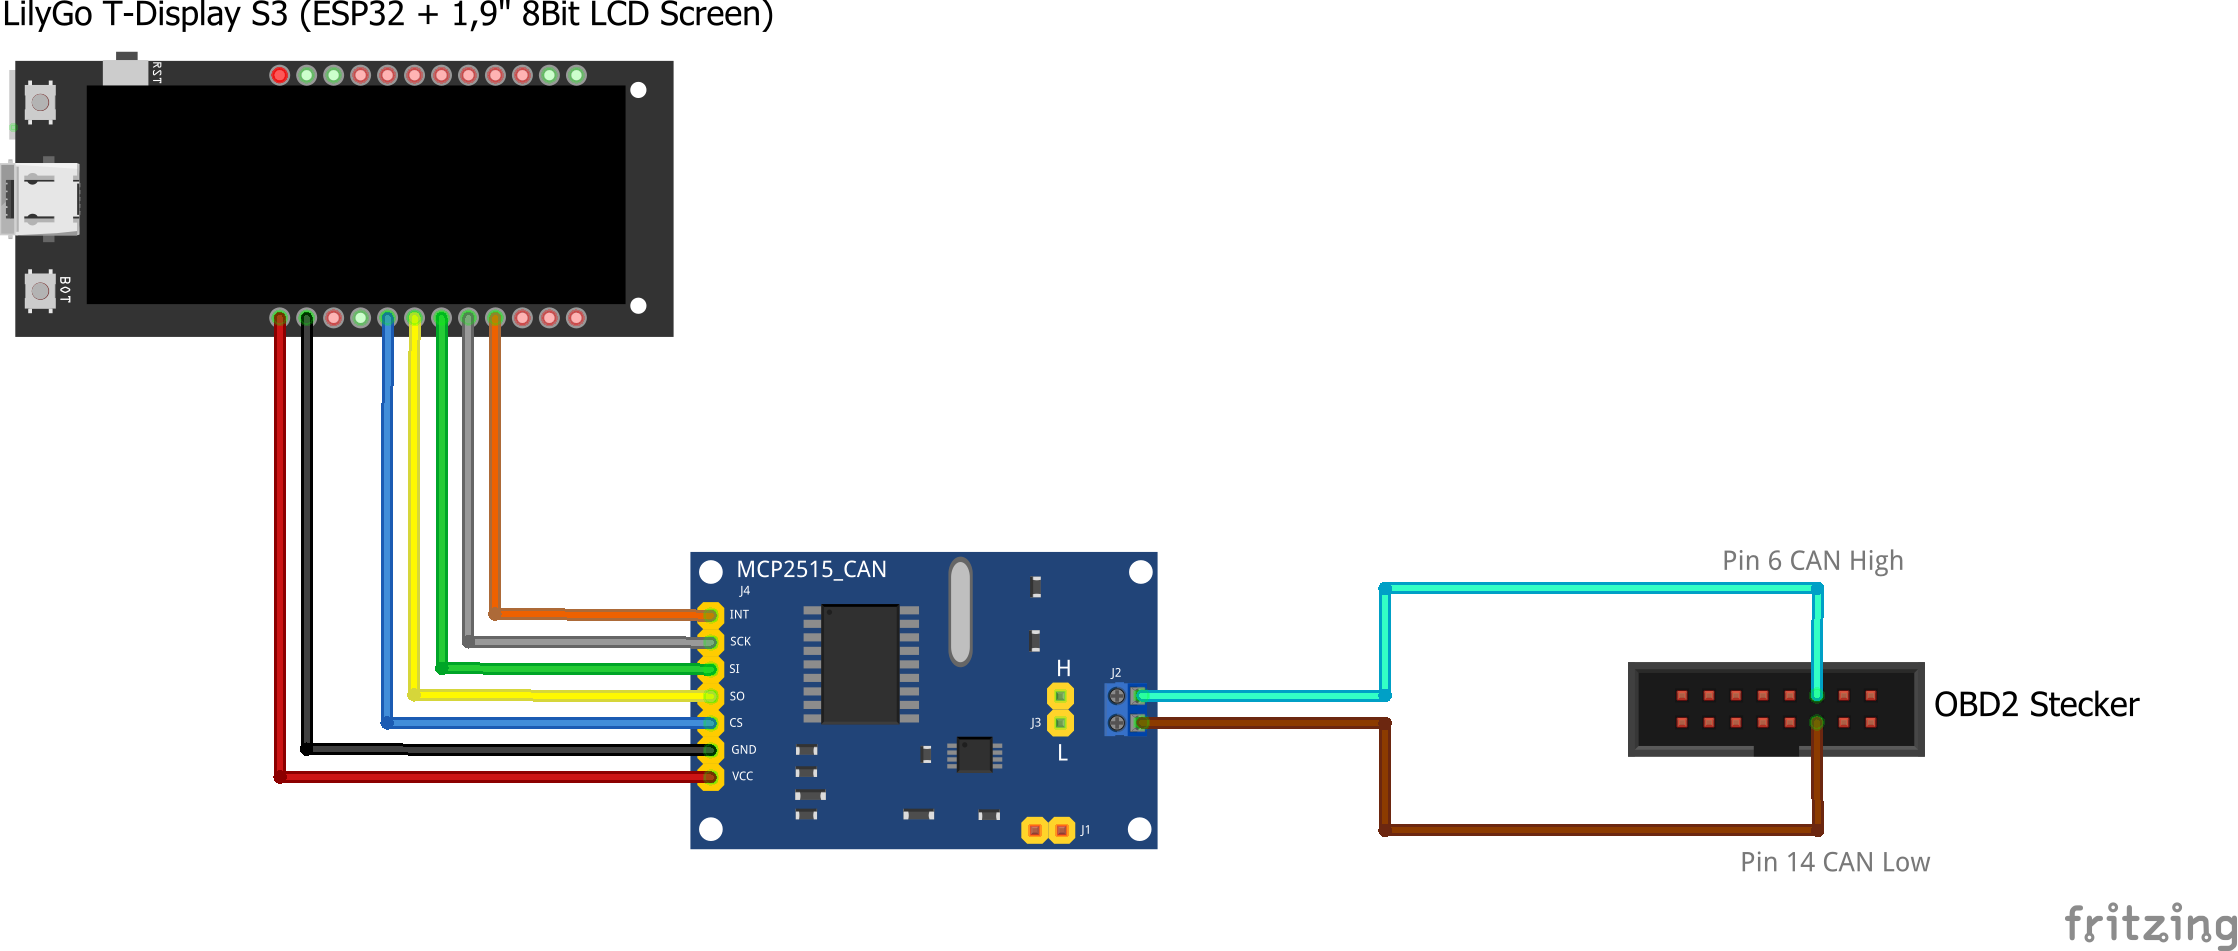
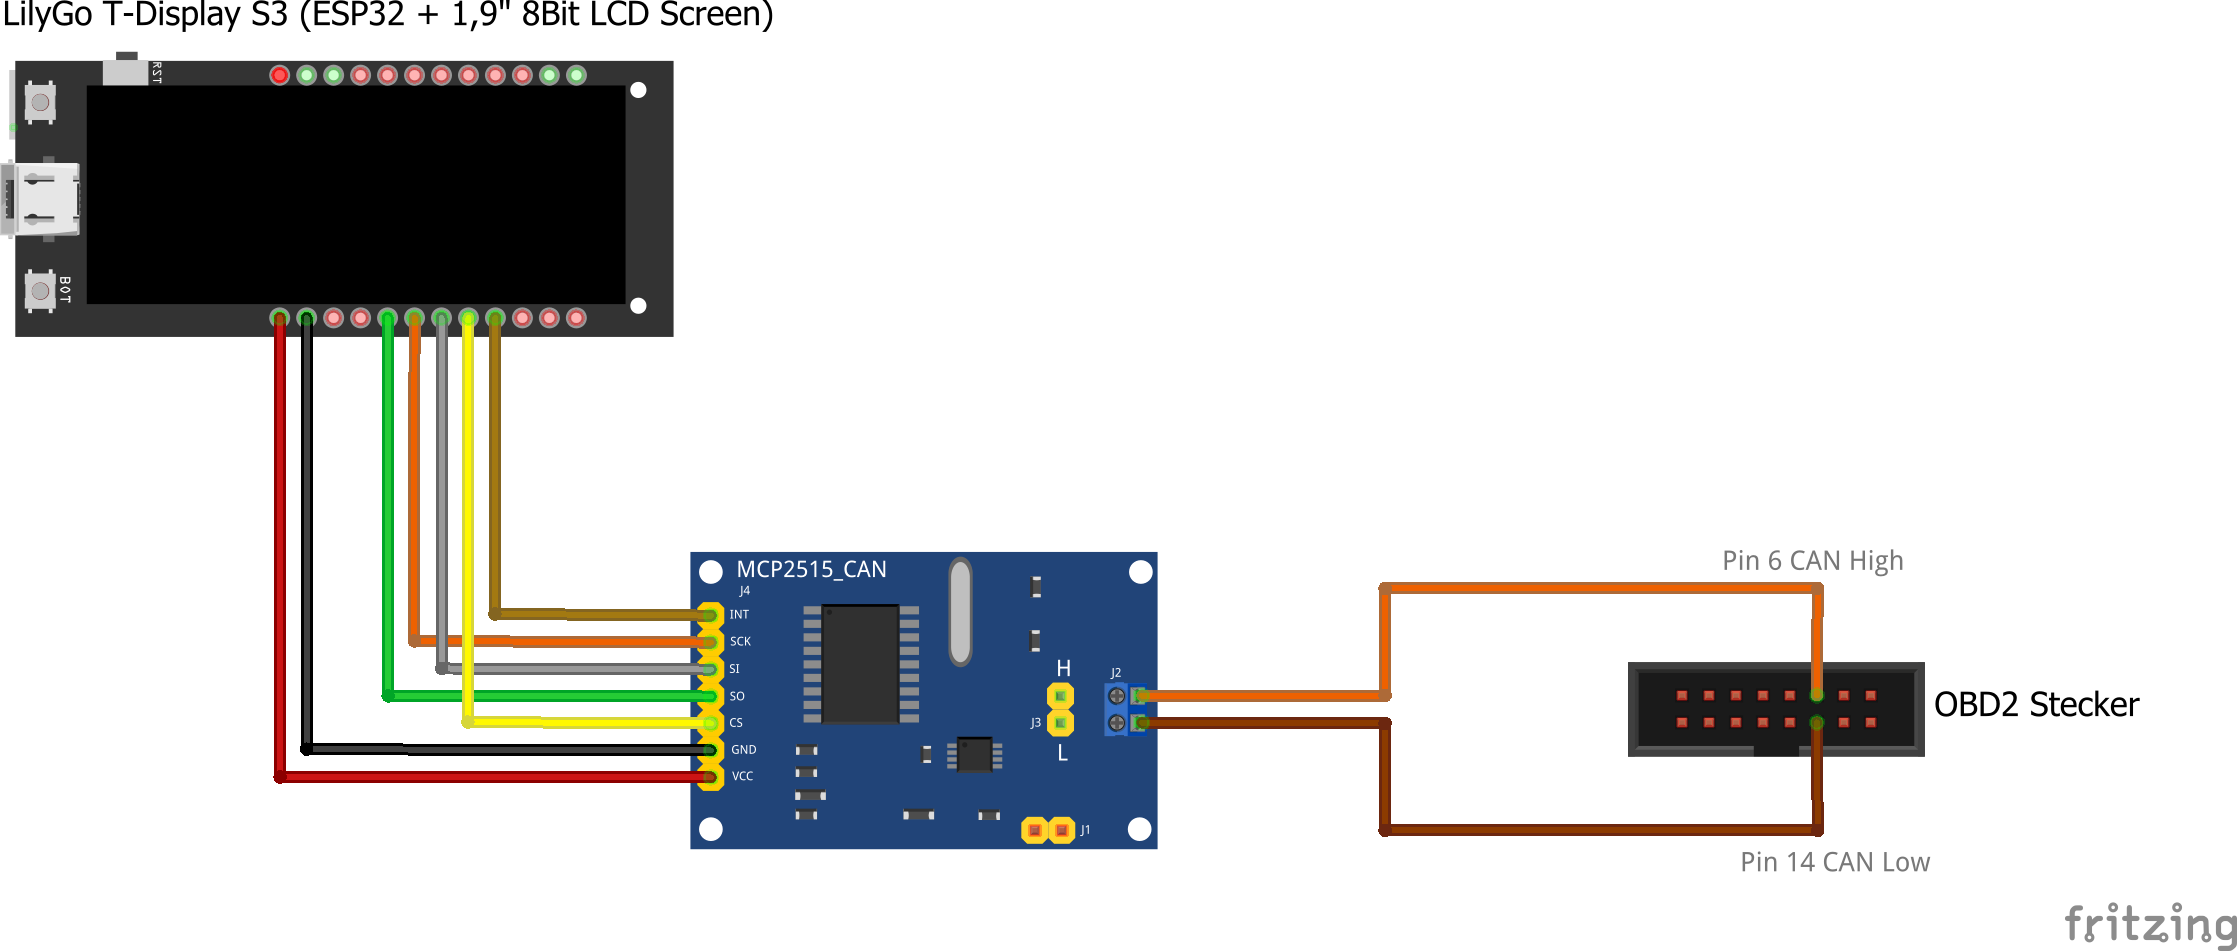
First try to read CAN

Changed region(s): [[0.1542, 0.3049, 0.3391, 0.7928], [0.4933, 0.6099, 0.8324, 0.7624]]

diff --git a/src/main.cpp b/src/main.cpp
@@ -1,24 +1,26 @@
 #include <Arduino.h>
 #include <TFT_eSPI.h>
-//#include <mcp2515.h>
-//#include <SPI.h>
+#include <mcp2515.h>
+#include <SPI.h>
 
 #define DISPLAY_POWER_PIN 15
 #define DISPLAY_BACKLIGHT 38
 #define DISPLAY_HIGHT 170
 #define DISPLAY_WIDTH 320
+#define CAN_INTERRUPT 3
 
 
 TFT_eSPI tft = TFT_eSPI();
-//MCP2515 can(13);     // Set CS of MCP2515_CAN module to Pin 13
+MCP2515 can(SS);     // Set CS of MCP2515_CAN module to Pin 10
 
 unsigned long DisplayRefreshLastRun = 0;
 const long DisplayRefreshInterval = 1000; //Milliseconds
 
 // put function declarations here:
 void DisplayRefresh();
-void SetCANStatusInidcator(uint16_t color = TFT_RED){tft.drawCircle(188, 156, 8, color);}
-void SetALIVEStatusInidcator(uint16_t color = TFT_RED){tft.drawCircle(85, 156, 8, color);}
+bool CheckCanMessage();
+void SetALIVEStatusInidcator(uint16_t color = TFT_RED){tft.fillCircle(85, 156, 8, color);}
+void SetCANStatusInidcator(uint16_t color = TFT_RED) { tft.fillCircle(188, 156, 8, color); }
 
 void setup() {
   // put your setup code here, to run once:
@@ -62,18 +64,19 @@ void setup() {
   tft.fillRectHGradient(10, 106, 100, 30, TFT_DARKGREEN, TFT_GREEN);
   tft.fillRectHGradient(112, 106, 200, 30, TFT_YELLOW, TFT_RED);
   tft.setTextSize(3);
+  tft.setTextColor(TFT_WHITE);
   tft.drawString("-10,2 kW", 130, 110);
 
   // 12V Spannung
   // 45V Temp
   // 45V SoC
 
-  //Defaults
+  // Text Defaults
   tft.setTextSize(2);
   tft.setTextColor(TFT_WHITE);
 
   // CAN Module
-  /* can.reset();
+  can.reset();
   can.setBitrate(CAN_500KBPS);
 
   if ( can.getStatus() ) {
@@ -83,26 +86,75 @@ void setup() {
     } 
   else {
     Serial.println("Error Initializing CAN-Module...");
-    } */
+    }
 }
 
 
 void loop() {
   unsigned long currentMillis = millis();
-  Serial.println("Still alive - " + currentMillis);    // Print a label
+  Serial.println(" - Tick: " + String(currentMillis));
   if (currentMillis - DisplayRefreshLastRun >= DisplayRefreshInterval){
     DisplayRefreshLastRun = currentMillis;
     DisplayRefresh();
   }
-  delay(25); //loop delay to 
+
+  CheckCanMessage();
+
+  //Debug
+  tft.fillRect(0, 30, 260, 60, TFT_DARKGREY);
+  tft.drawString(String(currentMillis), 0, 30);
+  tft.drawString(String(can.getStatus()), 0, 50);
+ 
+  delay(250); //loop delay to 
 }
 
 // put function definitions here:
 void DisplayRefresh(){
-  Serial.println("Display Refresh - "); 
+  Serial.println("Display Refresh"); 
   //Statusleiste
-  //if (tft.readPixel(85, 156) == TFT_WHITE) {SetALIVEStatusInidcator(TFT_GREEN);}
-  //else {SetALIVEStatusInidcator(TFT_WHITE);}
+  if (tft.readPixel(85, 156) == 58623) {SetALIVEStatusInidcator(TFT_GREEN);} else {SetALIVEStatusInidcator(TFT_WHITE);}
+}
 
+bool CheckCanMessage(){
+  Serial.println("Check CAN message"); 
+  struct can_frame canMsg;
+  if ( can.readMessage(&canMsg) == MCP2515::ERROR_OK ){
+    Serial.println("CAN Message recived - ID: " + String(canMsg.can_id)); 
+    Serial.println("CAN Message recived - DLC: " + String(canMsg.can_dlc));
+    Serial.println("CAN Message recived - Data: " + String(canMsg.data[0]) + " " + String(canMsg.data[1]) + " " + String(canMsg.data[2]) + " " + String(canMsg.data[3]) + " " + String(canMsg.data[4]) + " " + String(canMsg.data[5]) + " " + String(canMsg.data[6]) + " " + String(canMsg.data[7]) + " " + String(canMsg.data[8]));
+    tft.drawString(String(canMsg.can_id), 0, 70);
+    tft.drawString(String(canMsg.can_dlc), 100, 70);
+    
+    switch (canMsg.can_id) {
+      case 0x581:
+        Serial.println("CAN: ODO");
+        break;
+      case 0x582:
+        Serial.println("CAN: Reamining");
+        break;
+      case 0x593:
+        Serial.println("CAN: 12V Batt Voltage");
+        break;
+      case 0x594:
+        Serial.println("CAN: MainBatt Temp");
+        break;
+      case 0x580:
+        Serial.println("CAN: MainBatt Voltage");
+        break;
+      case 0x713:
+        Serial.println("CAN: Display");
+        break;
+      case 0x714:
+        Serial.println("CAN: Break");
+        break;
+    }
 
+    //Statusleiste
+    if (tft.readPixel(188, 156) == 58623) {SetCANStatusInidcator(TFT_GREEN);} else {SetCANStatusInidcator(TFT_WHITE);}
+    return true;
+  }
+  else {
+    // Serial.println("no CAN Message found");
+    return false;
+    }
 }

diff --git a/README.md b/README.md
@@ -14,10 +14,10 @@
 |-|-|-|
 | Power 5V | 5V | VCC |
 | Ground | GND | GND |
-| Chip select | PIN 13 | CS|
-| SPI MISO | PIN 12 | SO |
+| Chip select | PIN 10 | CS|
+| SPI MISO | PIN 13 | SO |
 | SPI MOSI | PIN 11 | SI |
-| Serial clock | PIN 10 | SCK |
+| Serial clock | PIN 12 | SCK |
 | Interrupt | PIN 3 | INT |
 
 ## Software:
